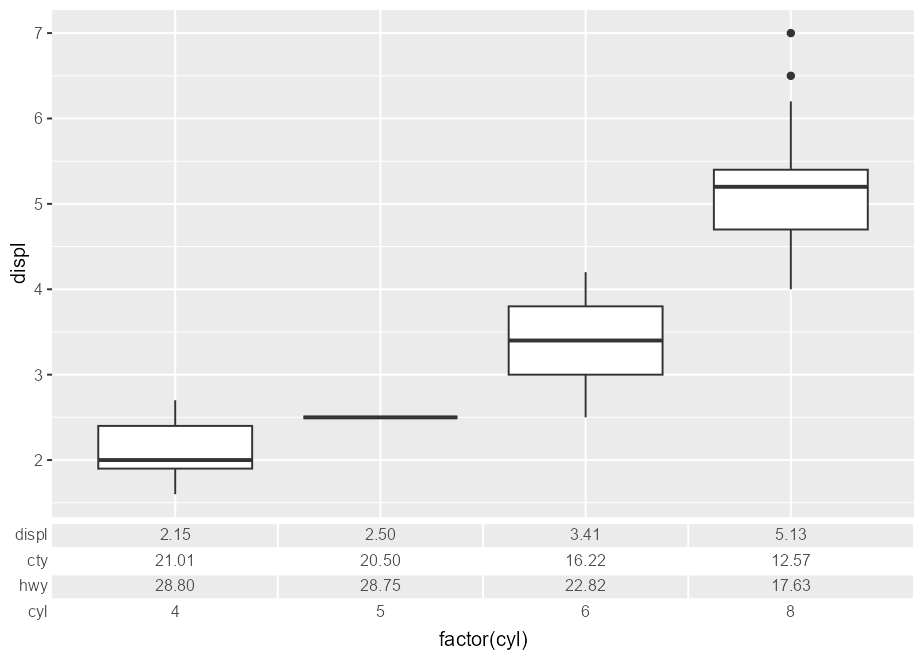
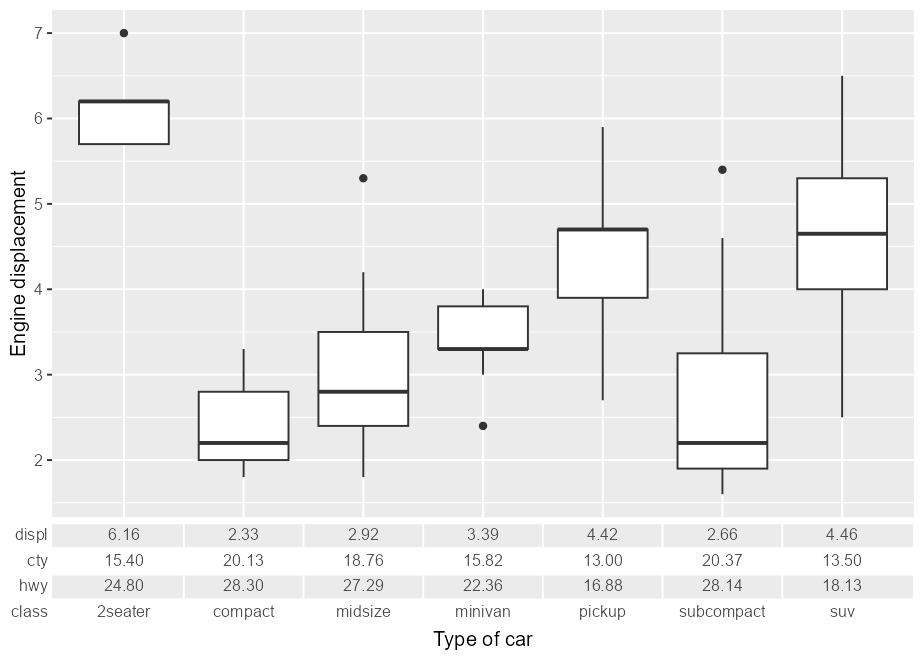
Include more examples

diff --git a/README.md b/README.md
@@ -44,12 +44,17 @@ A table of contents of this package’s utilities:
 2.  [Colour bars](#colour-bars)
     1.  [Capped colour bar](#capped-colour-bar)
     2.  [Violin colour bar](#violin-colour-bar)
+    3.  [Histogram colour bar](#histogram-colour-bar)
 3.  [Axes](#axes)
     1.  [Subtitles](#subtitles)
     2.  [Minor ticks](#minor-ticks)
     3.  [Capping](#capping)
     4.  [Ranges](#ranges)
     5.  [Table](#table)
+4.  [Grids](#grids)
+    1.  [Regular](#regular)
+    2.  [Plus](#plus)
+    3.  [Zebra](#zebra)
 
 ## Examples
 
@@ -166,8 +171,14 @@ p + guides(x = "axis_cap")
 With bracketed ranges.
 
 ``` r
-ggplot(mpg, aes(class, displ)) +
+boxplot <- ggplot(mpg, aes(class, displ)) +
   geom_boxplot() +
+  labs(
+    x = "Type of car",
+    y = "Engine displacement"
+  )
+
+boxplot +
   guides(x = guide_axis_nested(
     range_start = c(0.5, 3.5),
     range_end   = c(4.5, 6.5),
@@ -184,15 +195,50 @@ Using a table as an axis guide.
 
 ``` r
 # Creating summary table
-my_table <- lapply(split(mpg[, c("displ", "cty", "hwy")], mpg$cyl), colMeans)
+my_table <- lapply(split(mpg[, c("displ", "cty", "hwy")], mpg$class), colMeans)
 my_table <- as.data.frame(do.call(rbind, my_table))
 my_table[] <- lapply(my_table, scales::number, accuracy = 0.01)
-my_table$cyl <- rownames(my_table)
+my_table$class <- rownames(my_table)
 
 # Use summary table as axis guide
-ggplot(mpg, aes(factor(cyl), displ)) +
-  geom_boxplot() +
-  guides(x = guide_axis_table(table = my_table, key_col = cyl))
+boxplot +
+  guides(x = guide_axis_table(table = my_table, key_col = class))
 ```
 
 <img src="man/figures/README-axis_table-1.png" width="80%" style="display: block; margin: auto;" />
+
+### Grids
+
+#### Regular
+
+Like the vanilla panel grid, but with more options for where breaks
+appear. Here, between categories.
+
+``` r
+boxplot +
+  coord_guided(guide_grid(x_breaks = breaks_between()))
+```
+
+<img src="man/figures/README-regular_grid-1.png" width="80%" style="display: block; margin: auto;" />
+
+#### Plus
+
+Subtler grid lines by only drawing the intersections, making a ‘plus’
+symbol.
+
+``` r
+p + coord_guided("grid_plus")
+```
+
+<img src="man/figures/README-plus_grid-1.png" width="80%" style="display: block; margin: auto;" />
+
+#### Zebra
+
+Alternating stripes between breaks.
+
+``` r
+boxplot + coord_guided("grid_zebra") +
+  theme(panel.grid.major.x = element_line(alpha("grey50", 0.1)))
+```
+
+<img src="man/figures/README-zebra_grid-1.png" width="80%" style="display: block; margin: auto;" />
